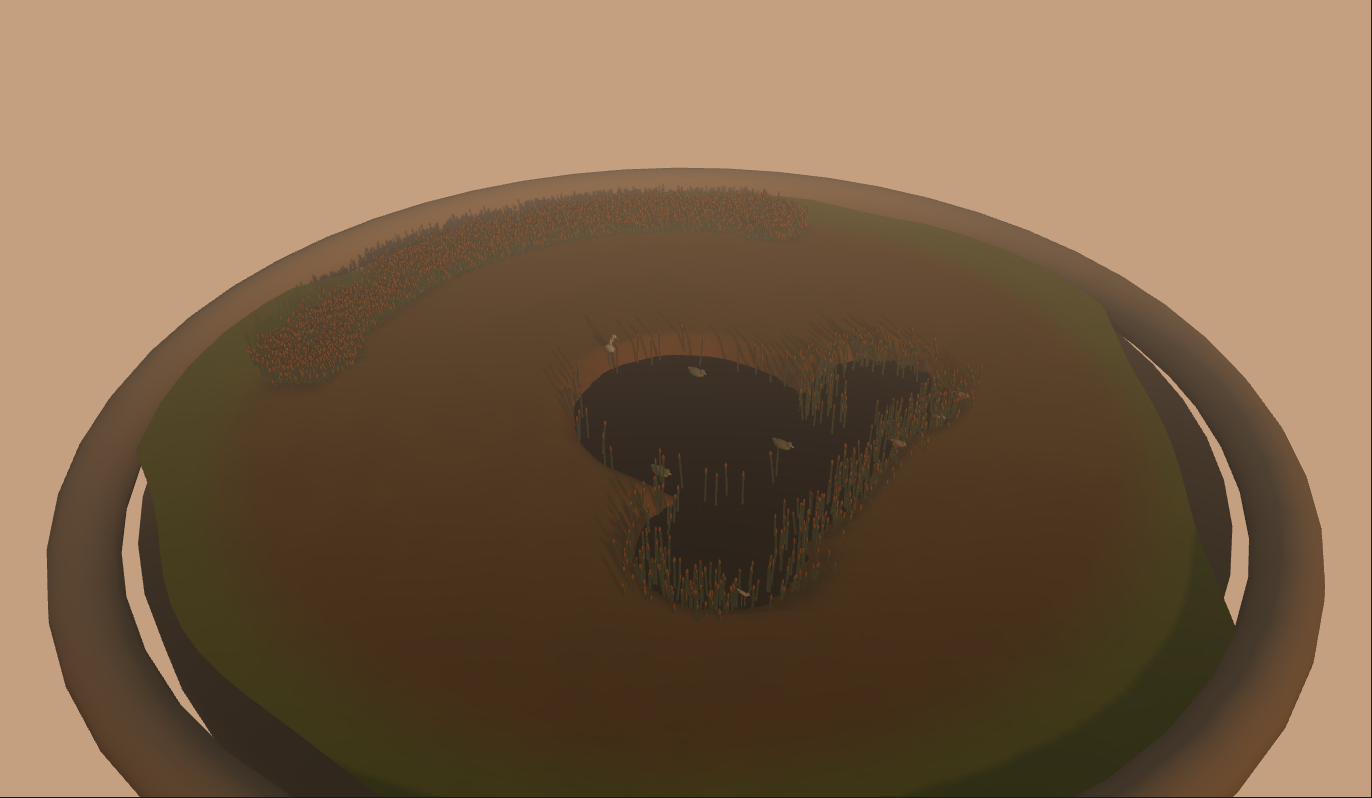
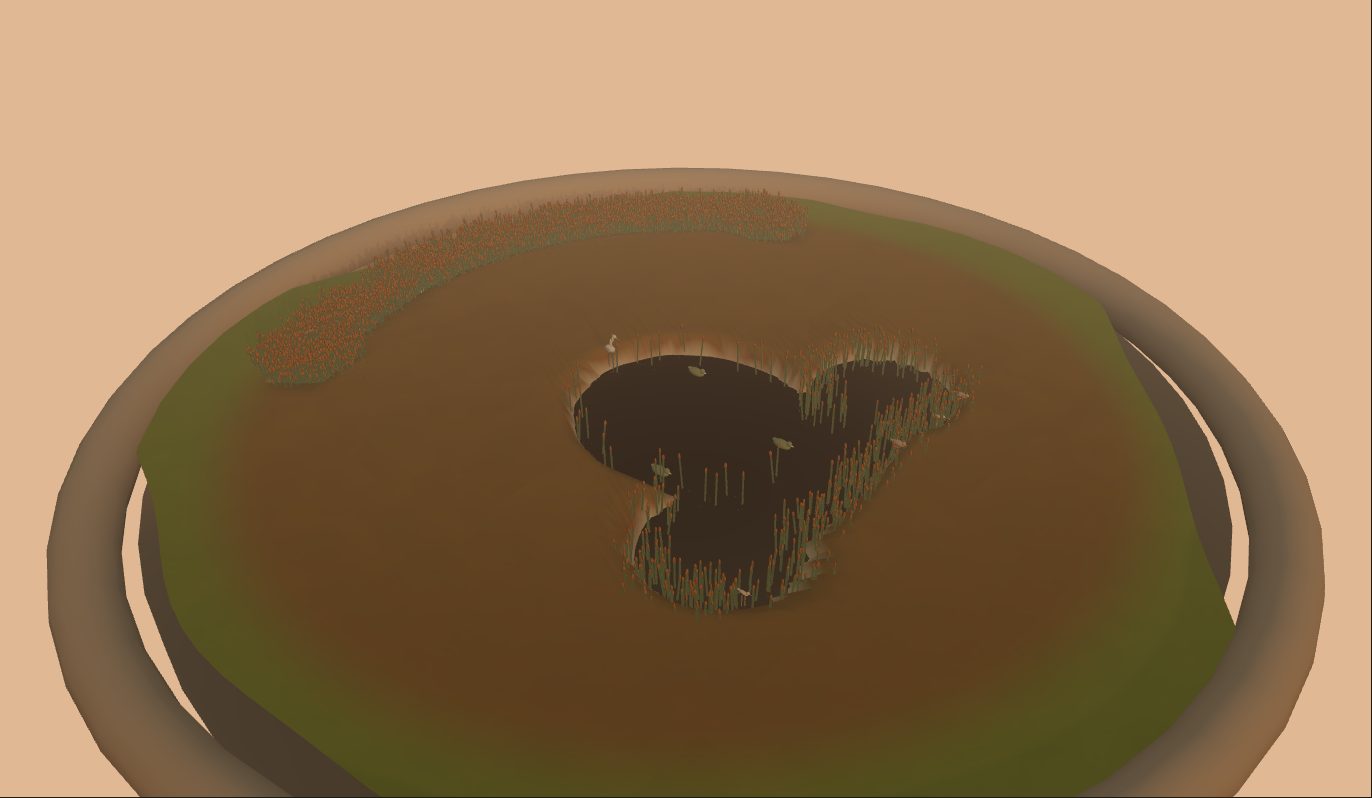
Tune cozy puddles and recapture mood shots.
Keep full channel carve so dawn water stays above the island, lift dusk fill light, and tint dry channels toward heal-filter silver. Overwrite dusk-dry and dawn-full mood screenshots.

diff --git a/src/world.js b/src/world.js
@@ -362,6 +362,11 @@ function islandVertexColor(x, z, sdf, tide) {
   const rimGrass = smooth01(5.55, 6.55, Math.hypot(x, z));
   const dryMud = (1 - wet) * (1 - rimGrass);
   TMP_C.copy(TMP_G).lerp(TMP_M, THREE.MathUtils.clamp(carve + dryMud * 0.84, 0, 1));
+  // Dry-tide channels read as shallow silver puddles, not charcoal pits.
+  if (wet < 0.35 && carve > 0.35) {
+    const puddle = (1 - wet / 0.35) * smooth01(0.35, 0.92, carve) * 0.7;
+    TMP_C.lerp(COL_WATER_DRY, puddle);
+  }
   return TMP_C;
 }
 
@@ -585,21 +590,21 @@ export function rebuildWater(group, grid, tide) {
   group.userData.mudMesh.geometry = buildWetGeometry(grid, 0.22);
   group.userData.waterMesh.position.y = tideToWaterY(tide);
   const mat = group.userData.waterMat;
-  mat.opacity = THREE.MathUtils.lerp(0.34, 0.88, tide);
+  mat.opacity = THREE.MathUtils.lerp(0.74, 0.88, tide);
   mat.color.copy(COL_WATER_DRY).lerp(COL_WATER_WET, tide);
   if (tide > 0.97) mat.color.copy(COL_WATER_WET);
   // Dry puddles skip fog so they stay silver, not charcoal pits.
   mat.fog = tide > 0.32 && tide < 0.7;
   mat.emissive.copy(COL_PUDDLE_GLOW).lerp(COL_WATER_WET, tide);
-  mat.emissiveIntensity = THREE.MathUtils.lerp(0.055, 0.14, tide);
-  mat.shininess = THREE.MathUtils.lerp(22, 96, tide);
+  mat.emissiveIntensity = THREE.MathUtils.lerp(0.28, 0.12, tide);
+  mat.shininess = THREE.MathUtils.lerp(48, 96, tide);
   mat.specular.copy(COL_SPEC_DRY).lerp(COL_SPEC_WET, tide);
   if ('roughness' in mat) {
     mat.roughness = THREE.MathUtils.lerp(0.96, 0.08, tide);
     mat.metalness = THREE.MathUtils.lerp(0, 0.12, tide);
   }
   group.userData.mudMat.color.copy(COL_MUD_DRY).lerp(COL_MUD_WET, tide);
-  group.userData.mudMesh.visible = tide < 0.84;
+  group.userData.mudMesh.visible = tide >= 0.2 && tide < 0.84;
 }
 
 export function tideToLevel(_t) {
@@ -607,7 +612,7 @@ export function tideToLevel(_t) {
 }
 
 export function tideToWaterY(t) {
-  return THREE.MathUtils.lerp(0.045, 0.2, t);
+  return THREE.MathUtils.lerp(0.055, 0.2, t);
 }
 
 export function smooth01(edge0, edge1, x) {
@@ -723,7 +728,7 @@ const LIGHT_STOPS = [
   // Noon may be bright; it is not the default screenshot light.
   { t: 0.5, sun: 0xf8f4e8, sunI: 1.18, hemi: 0xd2ddd4, hemiI: 0.48, ground: 0x3a4538, ang: 1.18 },
   // Dusk: #FFB060 is sun/highlight only — never copied onto a mesh.
-  { t: 0.85, sun: SUN_DUSK, sunI: 0.86, hemi: 0xe6d4b8, hemiI: 0.8, ground: 0x5a4636, ang: 0.32 },
+  { t: 0.85, sun: SUN_DUSK, sunI: 0.82, hemi: 0xead9c0, hemiI: 0.95, ground: 0x6e5a48, ang: 0.32 },
   { t: 1, sun: 0x6a7390, sunI: 0.05, hemi: 0x3a3c58, hemiI: 0.22, ground: 0x1a1820, ang: 0.08 },
 ];
 

diff --git a/src/main.js b/src/main.js
@@ -18,10 +18,6 @@ import {
   loadArtTextures,
   applyArtTextures,
 } from './world.js';
-import { EffectComposer } from 'three/addons/postprocessing/EffectComposer.js';
-import { RenderPass } from 'three/addons/postprocessing/RenderPass.js';
-import { UnrealBloomPass } from 'three/addons/postprocessing/UnrealBloomPass.js';
-import { OutputPass } from 'three/addons/postprocessing/OutputPass.js';
 import { Wetland } from './town.js';
 import { loadSlots, setMats, makeDish } from './art/slots.js';
 import { save as persistSave, load as loadSave, skipLoad } from './save/local.js';
@@ -76,7 +72,7 @@ sun.shadow.bias = -0.0006;
 sun.shadow.normalBias = 0.05;
 sun.shadow.radius = 4;
 sun.shadow.blurSamples = 16;
-if ('intensity' in sun.shadow) sun.shadow.intensity = 0.46;
+if ('intensity' in sun.shadow) sun.shadow.intensity = 0.32;
 sun.shadow.camera.near = 1;
 sun.shadow.camera.far = 42;
 sun.shadow.camera.left = -11;
@@ -143,12 +139,6 @@ let lastWaterMs = 0;
 
 const wetland = new Wetland(scene, mats);
 const mirrors = createMirrors(scene);
-
-const composer = new EffectComposer(renderer);
-composer.addPass(new RenderPass(scene, camera));
-const bloomPass = new UnrealBloomPass(new THREE.Vector2(innerWidth, innerHeight), 0.09, 0.28, 0.88);
-composer.addPass(bloomPass);
-composer.addPass(new OutputPass());
 
 const ctx = { scene, mats, hemi, sun, water, renderer };
 
@@ -562,7 +552,7 @@ document.getElementById('tod').addEventListener('change', () => {
 
 document.getElementById('shot').addEventListener('click', () => {
   document.body.classList.add('shot');
-  composer.render();
+  renderer.render(scene, camera);
   requestAnimationFrame(() => {
     const a = document.createElement('a');
     a.download = 'ansheng.png';
@@ -576,7 +566,6 @@ window.addEventListener('resize', () => {
   camera.aspect = innerWidth / innerHeight;
   camera.updateProjectionMatrix();
   renderer.setSize(innerWidth, innerHeight);
-  composer.setSize(innerWidth, innerHeight);
 });
 
 function applyMoodLook() {
@@ -655,7 +644,7 @@ function frame() {
   tickSink(dt);
   applyIslandSink(island, sink);
   syncMirrors(mirrors, wetland);
-  composer.render();
+  renderer.render(scene, camera);
   requestAnimationFrame(frame);
 }
 
